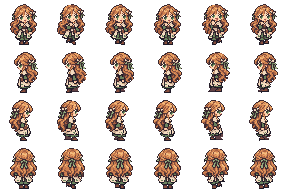
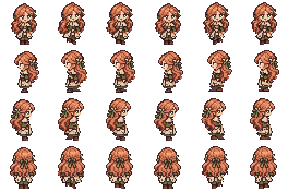
Restore Sophie's face on the field pixel grid and keep her features together through motion

diff --git a/tests/test_companion_sprites.py b/tests/test_companion_sprites.py
@@ -20,6 +20,38 @@ def cel(image, facing, frame):
 
 
 class CompanionSheets(unittest.TestCase):
+    def test_sophies_authored_face_survives_every_displayed_frame(self):
+        with Image.open(ROOT / "art/companions/sophie.png") as image:
+            master = image.convert("RGBA")
+        self.assertEqual(master.size, (4 * 44, 5 * 44))
+        for action, count in FRAMES.items():
+            atlas = sheet("sophie", action)
+            for direction in range(4):
+                for frame in range(count):
+                    with self.subTest(action=action, direction=direction, frame=frame):
+                        row = 0
+                        if action == "idle" and frame == 2:
+                            row = 1
+                        elif action == "talk" and frame == 2:
+                            row = 2
+                        elif action == "laugh" and frame in (2, 3):
+                            row = 3
+                        elif action == "surprise" and frame in (1, 2):
+                            row = 4
+                        view = 1 if direction == 3 and action in ("talk", "laugh") else direction
+                        x, y = view * 44, row * 44
+                        plate = master.crop((x, y, x + 44, y + 44))
+                        actual = cel(atlas, direction, frame).resize((44, 44), Image.Resampling.NEAREST)
+                        if action == "idle" and frame == 0:
+                            self.assertEqual(actual.tobytes(), plate.tobytes())
+                        # A nod or over-the-shoulder turn can translate the face.
+                        # The fringe, lashes, iris and mouth must travel together.
+                        face = plate.crop((14, 10, 30, 20)).tobytes()
+                        self.assertTrue(any(
+                            actual.crop((14 + dx, 10 + dy, 30 + dx, 20 + dy)).tobytes() == face
+                            for dy in range(-2, 2) for dx in range(-3, 3)
+                        ))
+
     def test_shipped_cels_decode_without_cut_edges_or_alpha_fringes(self):
         for hero in ("sophie", "triton", "margaret"):
             for action, frames in FRAMES.items():
